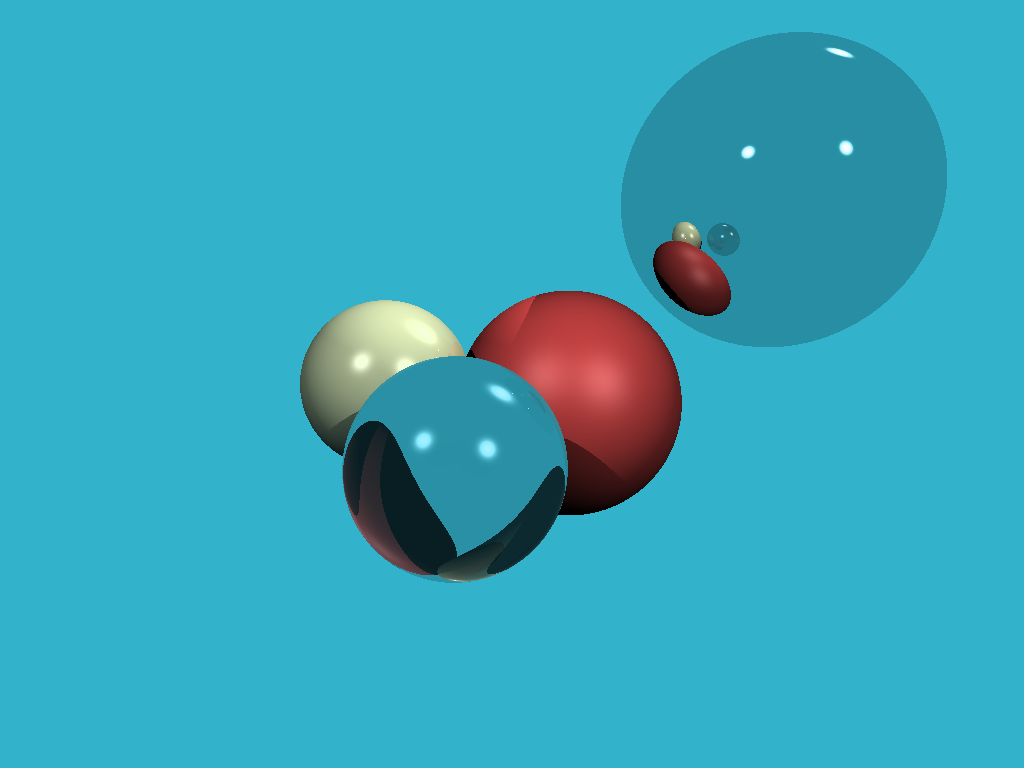
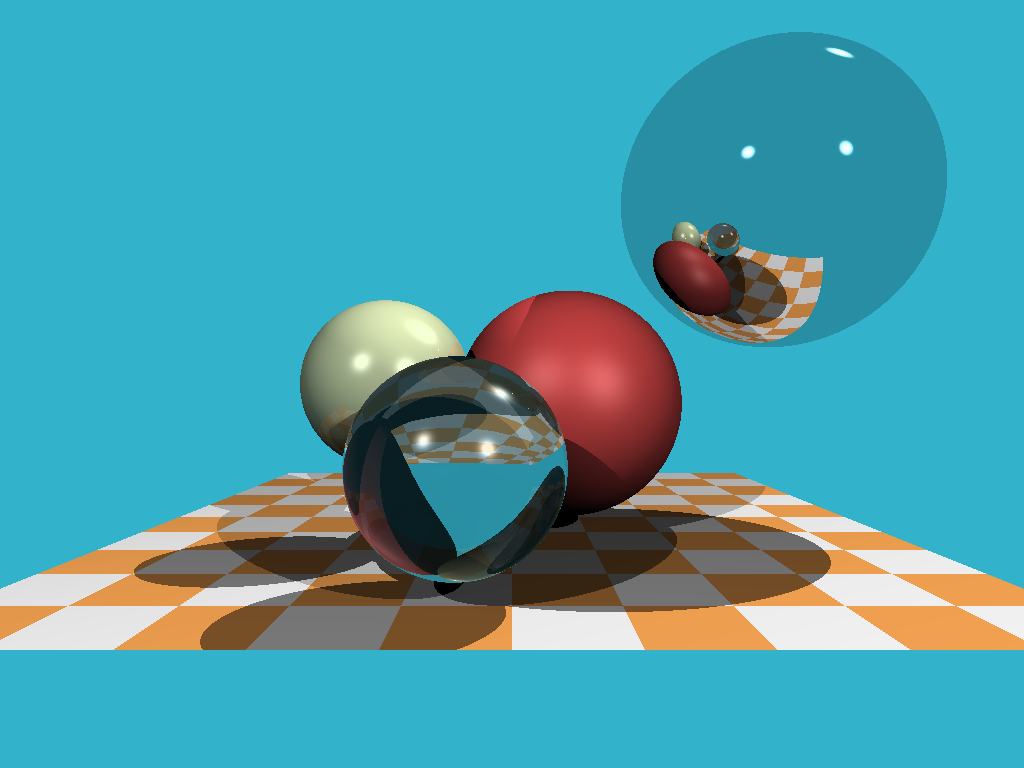
Step 9, checkerboard

Changed region(s): [[0.0, 0.5938, 1.0, 0.8438], [0.3438, 0.4375, 0.5625, 0.625], [0.6562, 0.2812, 0.8125, 0.4688]]

diff --git a/goray/render.go b/goray/render.go
@@ -14,6 +14,10 @@ type light struct {
 	intensity float64
 }
 
+var cbLight = Material{1.0, [4]float64{1.0, 0.0, 0.0, 0.0}, Vec3f{.3, .3, .3}, 0.}
+var cbDark = Material{1.0, [4]float64{1.0, 0.0, 0.0, 0.0}, Vec3f{.3, .2, .1}, 0.}
+var zeroOneZero = Vec3f{0.0, 1.0, 0.0}
+
 func sceneIntersect(orig, dir Vec3f, spheres []Sphere) (bool, Material, Vec3f, Vec3f) {
 	spheresDist := math.MaxFloat64
 	var hit, N Vec3f
@@ -29,7 +33,25 @@ func sceneIntersect(orig, dir Vec3f, spheres []Sphere) (bool, Material, Vec3f, V
 		}
 	}
 
-	return (spheresDist < 1000), material, hit, N
+	checkerboardDist := math.MaxFloat64
+
+	if math.Abs(dir.y) > 1e-3 {
+		d := -(orig.y + 4) / dir.y
+		pt := orig.add(dir.mult(d))
+
+		if d > 0 && math.Abs(pt.x) < 10 && pt.z < -10 && pt.z > -30 && d < spheresDist {
+			checkerboardDist = d
+			hit = pt
+			N = zeroOneZero
+			if ((int(0.5*hit.x+1000) + int(0.5*hit.z)) & 1) == 1 {
+				material = cbLight
+			} else {
+				material = cbDark
+			}
+		}
+	}
+
+	return (math.Min(spheresDist, checkerboardDist) < 1000), material, hit, N
 }
 
 var background = Vec3f{0.2, 0.7, 0.8}
